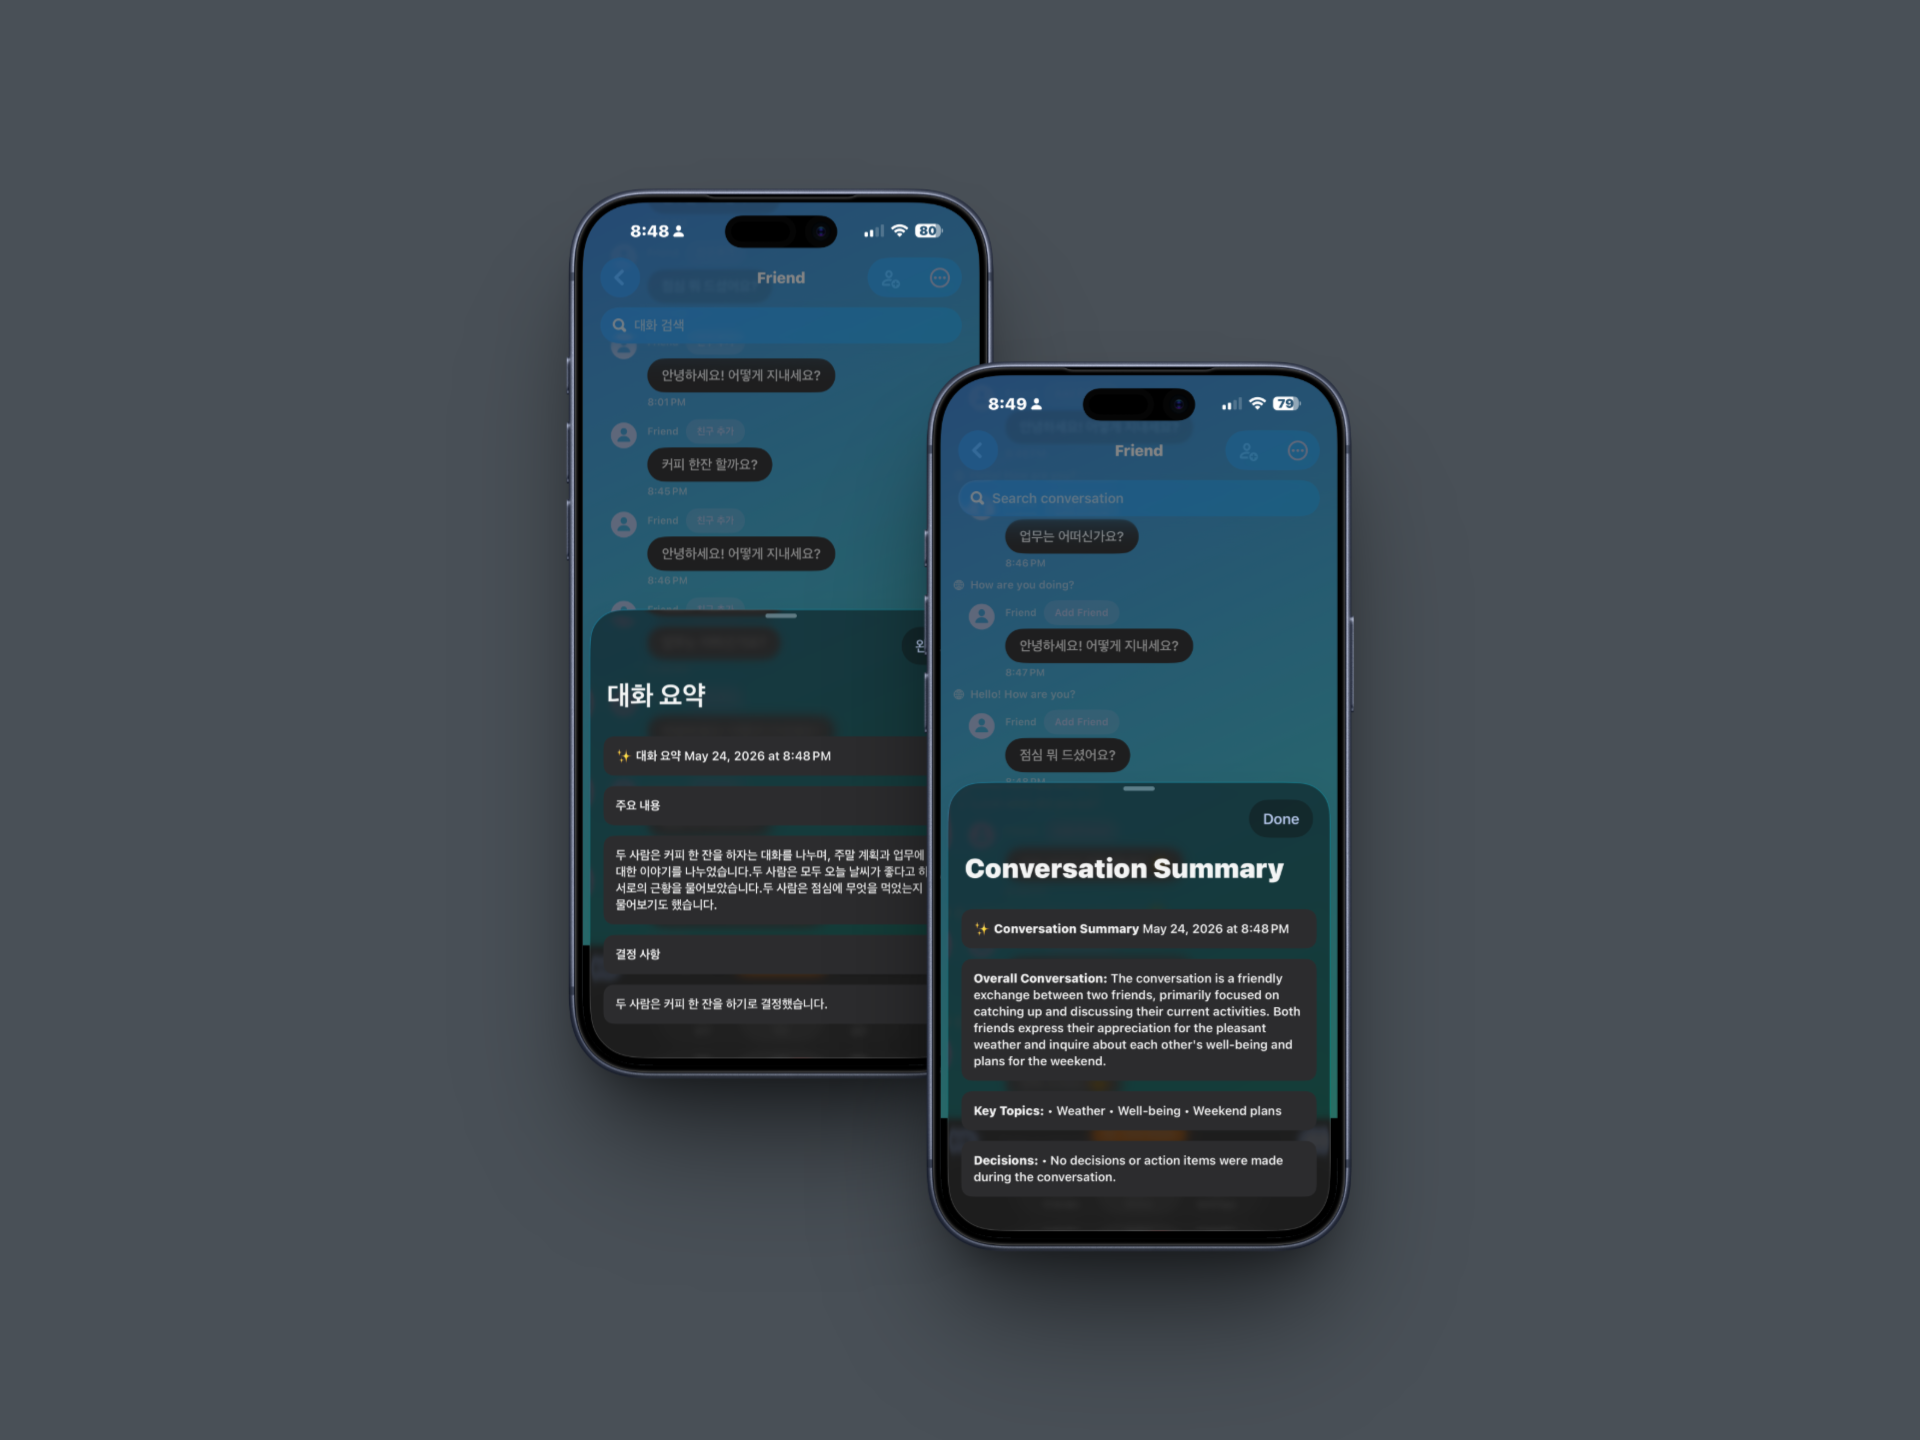
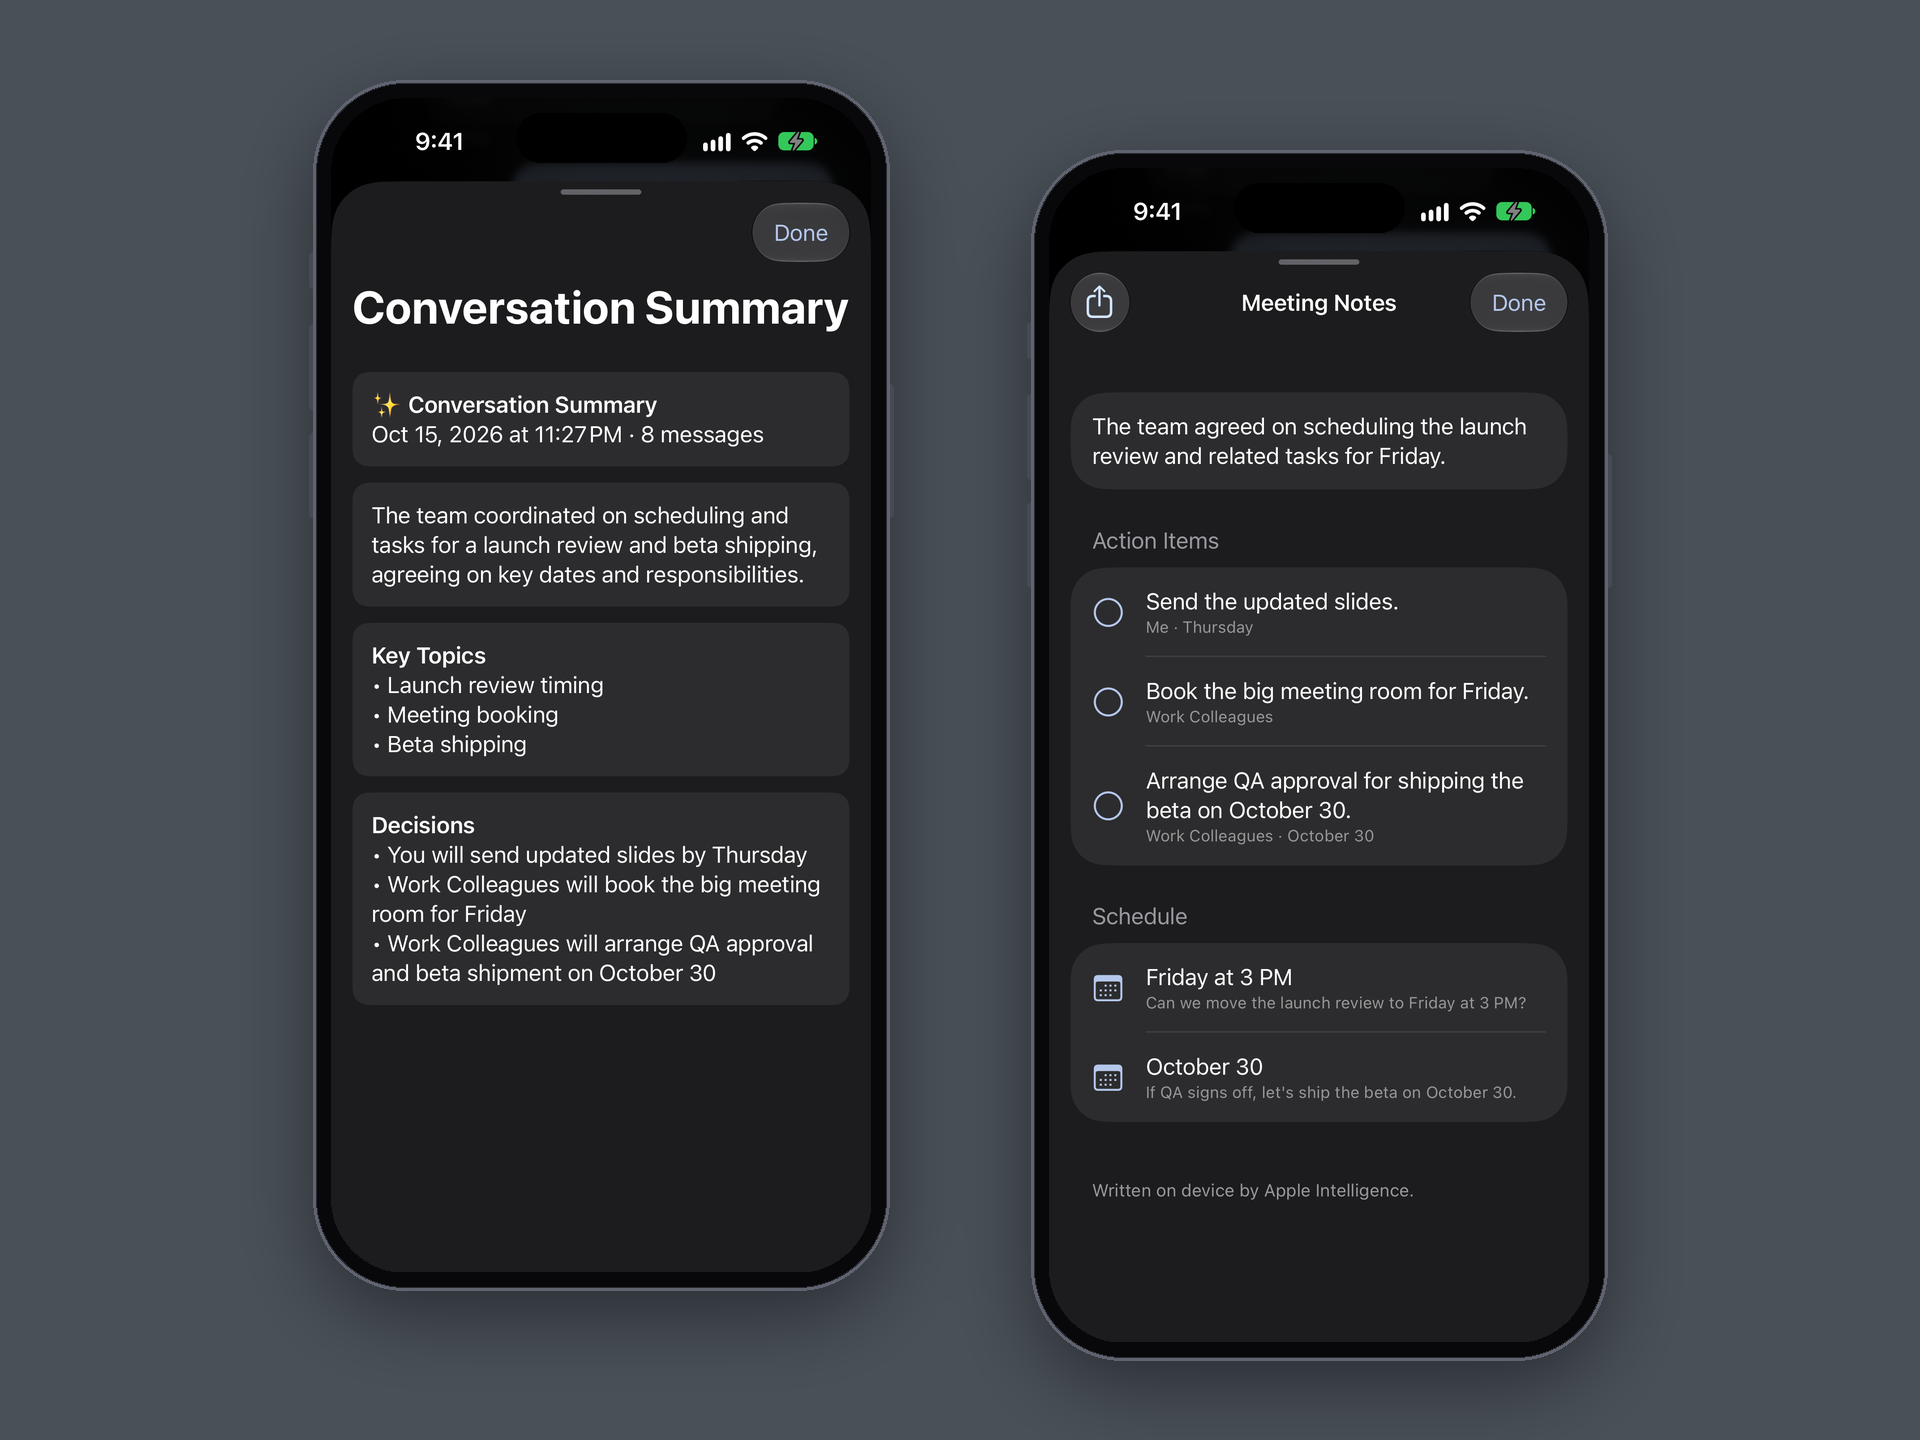
docs: show the AI features in the README screenshots
The AI summary screenshot was older than the guided-generation summary
and still showed problems that have since been fixed in ef4b162: its
bullet points ran together on one line, and the Korean summary had an
English date. It is replaced by the current summary beside the meeting
notes.

A new image shows reply suggestions beside search by meaning ("저녁 약속"
finding "dinner tonight"). The README described both features but had no
pictures of them.

Captured in test mode in the iOS 27 simulator and framed like the iPad
screenshot.

diff --git a/README.md b/README.md
@@ -116,9 +116,13 @@ It's the moment of connection — the spark when two people understand each othe
 
 ![Translation](docs/screenshots/translation.png)
 
-### AI Summary
+### AI Summary & Meeting Notes
 
-![AI Summary](docs/screenshots/summary.png)
+![AI summary and meeting notes](docs/screenshots/summary.png)
+
+### Reply Suggestions & Search by Meaning
+
+![Reply suggestions and search by meaning](docs/screenshots/suggestions-search.png)
 
 ### Settings
 
@@ -337,9 +341,13 @@ _방해받지 않는 메신저 — 그리고 언어 장벽까지 없애줍니다
 
 ![번역](docs/screenshots/translation.png)
 
-### AI 요약
+### AI 요약 · 회의 노트
 
-![AI 요약](docs/screenshots/summary.png)
+![AI 요약과 회의 노트](docs/screenshots/summary.png)
+
+### 추천 답장 · 의미로 검색
+
+![추천 답장과 의미로 검색](docs/screenshots/suggestions-search.png)
 
 ### 설정
 
